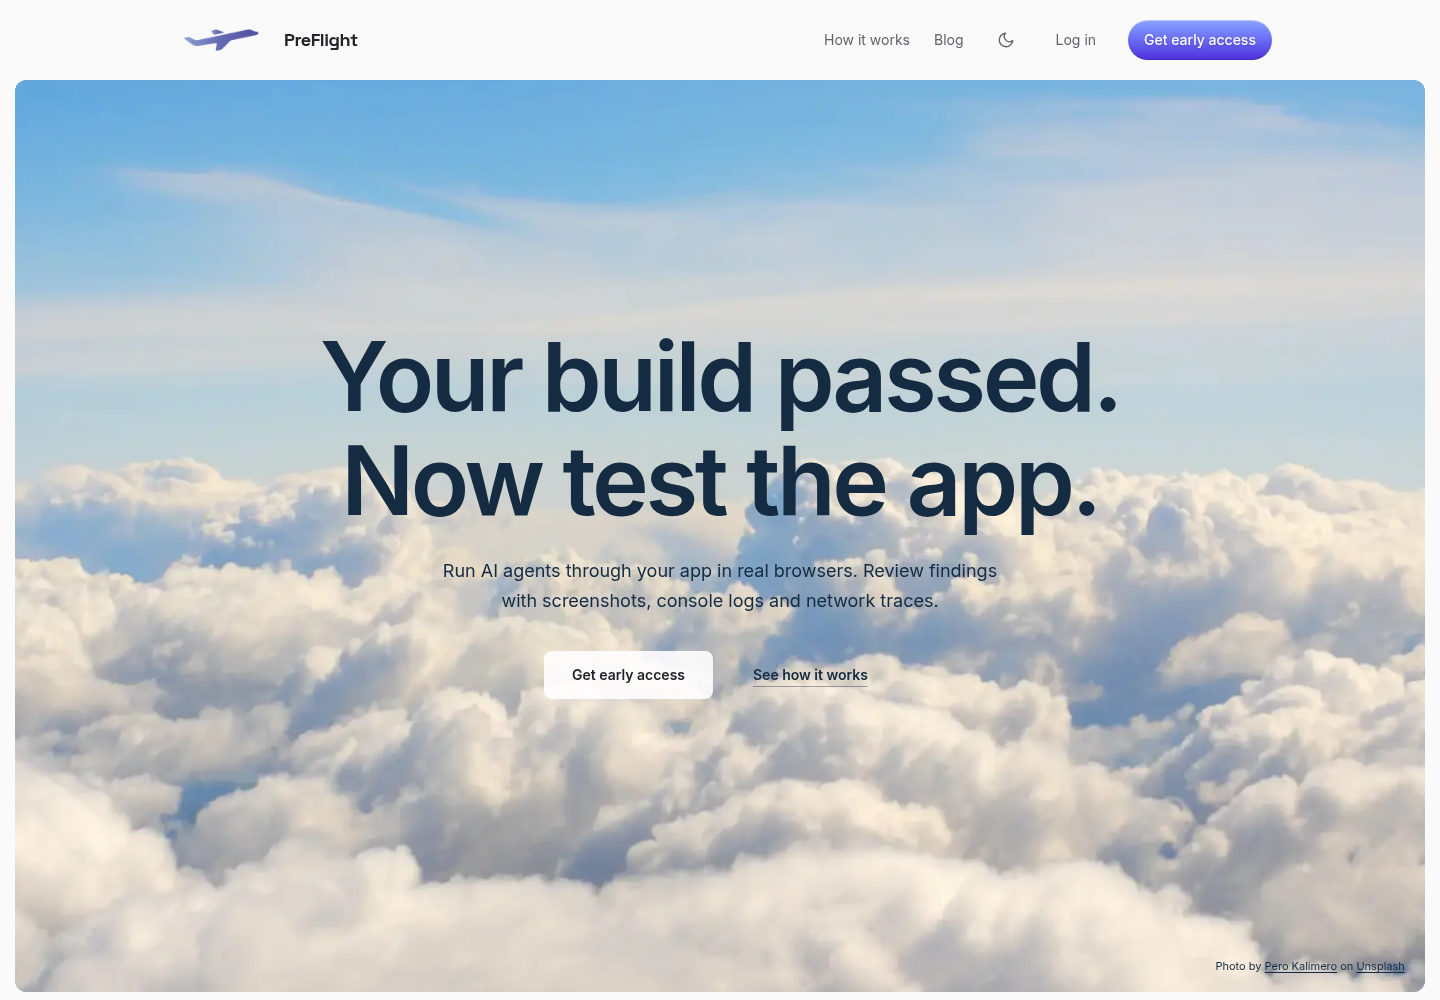
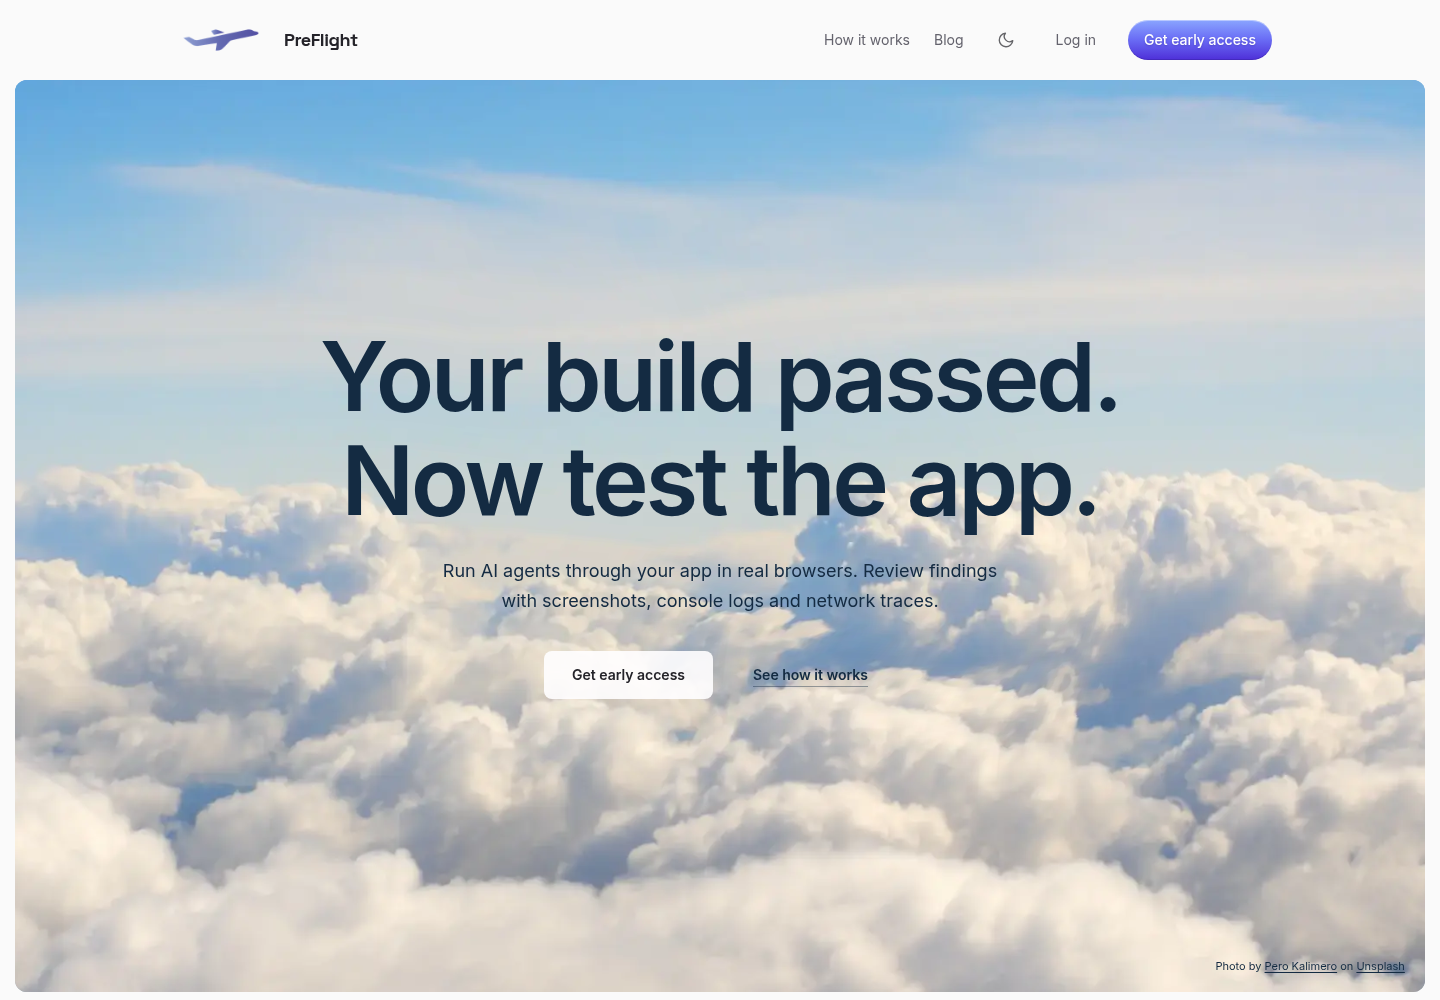
Let cursor strokes smear clouds and gently restore the photograph

diff --git a/components/CloudPhotoMotion.tsx b/components/CloudPhotoMotion.tsx
@@ -1,6 +1,11 @@
 "use client";
 
 import { useEffect, useRef, type ReactNode } from "react";
+import {
+  createCloudFlow,
+  stepCloudFlow,
+  type CloudStroke,
+} from "@/lib/cloud-flow";
 
 const vertexSource = `
 attribute vec2 a_position;
@@ -13,11 +18,8 @@ const fragmentSource = `
 precision highp float;
 uniform sampler2D u_photo;
 uniform vec2 u_cover;
-uniform vec2 u_cursor;
-uniform float u_aspect;
-uniform float u_hover;
+uniform sampler2D u_flow;
 uniform float u_scroll;
-uniform float u_time;
 varying vec2 v_uv;
 void main() {
   // Overscan makes room for parallax without exposing an edge of the photo.
@@ -26,17 +28,10 @@ void main() {
   float foreground = 1. - smoothstep(.34, .65, uv.y);
   // The cloud bank travels faster than the distant sky as the page scrolls.
   uv.y -= u_scroll * (.018 + .07 * foreground) * u_cover.y;
-  uv.x += sin(u_time * .12) * .003 * u_cover.x;
 
-  vec2 delta = v_uv - u_cursor;
-  vec2 metric = delta * vec2(u_aspect, 1.);
-  float distance = length(metric);
-  float envelope = exp(-dot(metric, metric) * 11.);
-  float ripple = sin(distance * 19. - u_time * 1.8) * .012;
-  // A localized lens and soft ripples bend the photograph around the cursor.
-  uv += delta * envelope * (.17 + ripple) * u_cover * u_hover;
-  uv += vec2(sin(metric.y * 12. + u_time), cos(metric.x * 12. - u_time))
-      * envelope * .003 * u_cover * u_hover;
+  // Sample a persistent directional field, never a cursor-centered zoom lens.
+  vec2 flow = (texture2D(u_flow, v_uv).rg * 255. - 128.) / 127. * .08;
+  uv -= flow * u_cover / 1.18;
   gl_FragColor = texture2D(u_photo, clamp(uv, .001, .999));
 }`;
 
@@ -75,13 +70,18 @@ export default function CloudPhotoMotion({
       let program: WebGLProgram | null = null;
       const shaders: WebGLShader[] = [];
       let buffer: WebGLBuffer | null = null,
-        texture: WebGLTexture | null = null;
+        texture: WebGLTexture | null = null,
+        flowTexture: WebGLTexture | null = null;
+      const flow = createCloudFlow();
+      let pointer: [number, number] | null = null;
+      let pendingStroke: CloudStroke | null = null;
       let gpuReady = false,
         lost = false;
       let uniforms: Record<string, WebGLUniformLocation | null> = {};
       function releaseGpu() {
         if (!gl) return;
         if (texture) gl.deleteTexture(texture);
+        if (flowTexture) gl.deleteTexture(flowTexture);
         if (buffer) gl.deleteBuffer(buffer);
         if (program) gl.deleteProgram(program);
         shaders.forEach((shader) => gl!.deleteShader(shader));
@@ -124,16 +124,29 @@ export default function CloudPhotoMotion({
           gl.texParameteri(gl.TEXTURE_2D, gl.TEXTURE_MAG_FILTER, gl.LINEAR);
           gl.texParameteri(gl.TEXTURE_2D, gl.TEXTURE_WRAP_S, gl.CLAMP_TO_EDGE);
           gl.texParameteri(gl.TEXTURE_2D, gl.TEXTURE_WRAP_T, gl.CLAMP_TO_EDGE);
+          flowTexture = gl.createTexture();
+          if (!flowTexture) throw new Error();
+          gl.activeTexture(gl.TEXTURE1);
+          gl.bindTexture(gl.TEXTURE_2D, flowTexture);
+          gl.texParameteri(gl.TEXTURE_2D, gl.TEXTURE_MIN_FILTER, gl.LINEAR);
+          gl.texParameteri(gl.TEXTURE_2D, gl.TEXTURE_MAG_FILTER, gl.LINEAR);
+          gl.texParameteri(gl.TEXTURE_2D, gl.TEXTURE_WRAP_S, gl.CLAMP_TO_EDGE);
+          gl.texParameteri(gl.TEXTURE_2D, gl.TEXTURE_WRAP_T, gl.CLAMP_TO_EDGE);
+          gl.texImage2D(
+            gl.TEXTURE_2D,
+            0,
+            gl.RGBA,
+            flow.width,
+            flow.height,
+            0,
+            gl.RGBA,
+            gl.UNSIGNED_BYTE,
+            stepCloudFlow(flow, 0, null, 1),
+          );
           uniforms = Object.fromEntries(
-            [
-              "u_photo",
-              "u_cover",
-              "u_cursor",
-              "u_aspect",
-              "u_hover",
-              "u_scroll",
-              "u_time",
-            ].map((name) => [name, gl!.getUniformLocation(program!, name)]),
+            ["u_photo", "u_cover", "u_flow", "u_scroll", "u_time"].map(
+              (name) => [name, gl!.getUniformLocation(program!, name)],
+            ),
           );
         } catch {
           releaseGpu();
@@ -142,24 +155,18 @@ export default function CloudPhotoMotion({
       }
       let frame = 0,
         visible = true,
-        last = 0,
-        time = 0;
+        last = 0;
       let width = 1,
         height = 1,
         scroll = 0,
         targetScroll = 0;
-      let x = 0.5,
-        y = 0.5,
-        targetX = 0.5,
-        targetY = 0.5,
-        hover = 0,
-        targetHover = 0;
       function scrollPosition() {
         const bounds = host!.getBoundingClientRect();
         targetScroll = Math.max(
           -1,
           Math.min(1, -bounds.top / Math.max(bounds.height, 1)),
         );
+        wake();
       }
       function resize() {
         const bounds = host!.getBoundingClientRect();
@@ -178,6 +185,7 @@ export default function CloudPhotoMotion({
       function upload() {
         if (!gl || lost || !photo!.complete || !photo!.naturalWidth) return;
         try {
+          gl.activeTexture(gl.TEXTURE0);
           gl.bindTexture(gl.TEXTURE_2D, texture);
           gl.pixelStorei(gl.UNPACK_FLIP_Y_WEBGL, 1);
           gl.texImage2D(
@@ -189,6 +197,7 @@ export default function CloudPhotoMotion({
             photo!,
           );
           gpuReady = true;
+          wake();
         } catch {
           gpuReady = false;
         }
@@ -198,11 +207,7 @@ export default function CloudPhotoMotion({
         if (!visible || document.hidden) return;
         const dt = last ? Math.min((now - last) / 1000, 0.05) : 1 / 60;
         last = now;
-        time += dt;
         const blend = 1 - Math.exp(-dt * 9);
-        x += (targetX - x) * blend;
-        y += (targetY - y) * blend;
-        hover += (targetHover - hover) * blend;
         scroll += (targetScroll - scroll) * blend;
         if (gl && gpuReady && !lost) {
           const imageAspect = photo!.naturalWidth / photo!.naturalHeight,
@@ -214,18 +219,37 @@ export default function CloudPhotoMotion({
             Math.min(1, aspect / imageAspect),
             Math.min(1, imageAspect / aspect),
           );
-          gl.uniform2f(uniforms.u_cursor, x, y);
-          gl.uniform1f(uniforms.u_aspect, aspect);
-          gl.uniform1f(uniforms.u_hover, hover);
+          gl.activeTexture(gl.TEXTURE1);
+          gl.bindTexture(gl.TEXTURE_2D, flowTexture);
+          gl.pixelStorei(gl.UNPACK_FLIP_Y_WEBGL, 0);
+          gl.texSubImage2D(
+            gl.TEXTURE_2D,
+            0,
+            0,
+            0,
+            flow.width,
+            flow.height,
+            gl.RGBA,
+            gl.UNSIGNED_BYTE,
+            stepCloudFlow(flow, dt, pendingStroke, aspect),
+          );
+          pendingStroke = null;
+          gl.uniform1i(uniforms.u_flow, 1);
           gl.uniform1f(uniforms.u_scroll, scroll);
-          gl.uniform1f(uniforms.u_time, time);
           gl.drawArrays(gl.TRIANGLES, 0, 6);
           layer!.dataset.motion = "webgl";
         } else {
           layer!.dataset.motion = "fallback";
-          photo!.style.transform = `scale(1.18) translate3d(${(x - 0.5) * -8 * hover}px,${scroll * height * 0.065}px,0)`;
+          pendingStroke = null;
+          flow.active = false;
+          photo!.style.transform = `scale(1.18) translate3d(0px,${scroll * height * 0.065}px,0)`;
         }
-        frame = requestAnimationFrame(tick);
+        if (
+          flow.active ||
+          pendingStroke ||
+          Math.abs(targetScroll - scroll) > 0.00001
+        )
+          frame = requestAnimationFrame(tick);
       }
       function wake() {
         if (visible && !document.hidden && !frame) {
@@ -234,27 +258,32 @@ export default function CloudPhotoMotion({
         } else if ((!visible || document.hidden) && frame) {
           cancelAnimationFrame(frame);
           frame = 0;
+          leave();
+          pendingStroke = null;
+          flow.values.fill(0);
         }
       }
       function move(event: PointerEvent) {
         if (!finePointer.matches || event.pointerType === "touch") return;
         const bounds = host!.getBoundingClientRect();
-        targetX = Math.max(
-          0,
-          Math.min(1, (event.clientX - bounds.left) / width),
-        );
-        targetY =
-          1 - Math.max(0, Math.min(1, (event.clientY - bounds.top) / height));
-        targetHover = 1;
+        const point: [number, number] = [
+          Math.max(0, Math.min(1, (event.clientX - bounds.left) / width)),
+          1 - Math.max(0, Math.min(1, (event.clientY - bounds.top) / height)),
+        ];
+        if (pointer)
+          pendingStroke = { from: pendingStroke?.from || pointer, to: point };
+        pointer = point;
+        wake();
       }
       function leave() {
-        targetHover = 0;
+        pointer = null; // The existing displacement continues relaxing after exit.
       }
       function contextLost(event: Event) {
         event.preventDefault();
         lost = true;
         gpuReady = false;
         layer!.dataset.motion = "fallback";
+        wake();
       }
       const observer = new IntersectionObserver((entries) => {
         visible = entries[0].isIntersecting;

diff --git a/lib/cloud-flow.ts b/lib/cloud-flow.ts
@@ -1,0 +1,63 @@
+export type CloudStroke = { from: [number, number]; to: [number, number] };
+export function createCloudFlow() {
+  const width = 64,
+    height = 48;
+  return {
+    width,
+    height,
+    active: false,
+    values: new Float32Array(width * height * 2),
+    pixels: new Uint8Array(width * height * 4),
+  };
+}
+/** Directional displacements persist where the pointer passed, then relax to zero. */
+export function stepCloudFlow(
+  flow: ReturnType<typeof createCloudFlow>,
+  dt: number,
+  stroke: CloudStroke | null,
+  aspect: number,
+) {
+  const decay = Math.exp(-dt * 1.25);
+  flow.active = false;
+  const ax = stroke?.from[0] ?? 0,
+    ay = stroke?.from[1] ?? 0;
+  const dx = stroke ? stroke.to[0] - ax : 0,
+    dy = stroke ? stroke.to[1] - ay : 0;
+  const lengthSquared = (dx * aspect) ** 2 + dy ** 2;
+  // Cap a single fast sweep and accumulated displacement to preserve the photo.
+  const gain = Math.min(1, 0.065 / Math.max(Math.sqrt(lengthSquared), 0.00001));
+  for (let y = 0; y < flow.height; y++)
+    for (let x = 0; x < flow.width; x++) {
+      const index = (y * flow.width + x) * 2;
+      let push = 0;
+      if (lengthSquared > 0.000001) {
+        const px = (x / (flow.width - 1) - ax) * aspect;
+        const py = y / (flow.height - 1) - ay;
+        const t = Math.max(
+          0,
+          Math.min(1, (px * dx * aspect + py * dy) / lengthSquared),
+        );
+        const distanceSquared =
+          (px - t * dx * aspect) ** 2 + (py - t * dy) ** 2;
+        push = Math.exp(-distanceSquared / 0.012) * gain * 0.9;
+      }
+      const vx = flow.values[index] * decay + dx * push;
+      const vy = flow.values[index + 1] * decay + dy * push;
+      // Bound physical displacement in screen space, including narrow windows.
+      const limit = Math.min(
+        1,
+        0.055 / Math.max(Math.hypot(vx * aspect, vy), 0.00001),
+      );
+      flow.values[index] = Math.abs(vx * limit) < 0.0001 ? 0 : vx * limit;
+      flow.values[index + 1] = Math.abs(vy * limit) < 0.0001 ? 0 : vy * limit;
+      if (flow.values[index] || flow.values[index + 1]) flow.active = true;
+      const pixel = index * 2;
+      flow.pixels[pixel] = Math.round(128 + (flow.values[index] / 0.08) * 127);
+      flow.pixels[pixel + 1] = Math.round(
+        128 + (flow.values[index + 1] / 0.08) * 127,
+      );
+      flow.pixels[pixel + 2] = 0;
+      flow.pixels[pixel + 3] = 255;
+    }
+  return flow.pixels;
+}

diff --git a/docs/photographic-cloud-hero/README.md b/docs/photographic-cloud-hero/README.md
@@ -19,25 +19,34 @@ The source/standard license links above are retained for review; no claim is mad
 that the current live Unsplash page was fetched successfully.
 
 The photograph replaces procedurally generated clouds. `CloudPhotoMotion` samples
-that same photo through a small WebGL shader: a cursor-following lens and soft
-ripples displace nearby pixels, and a height-based foreground mask lets the cloud
-bank move faster than the distant sky during scroll. It approximates depth from
+that same photo through a small WebGL shader. Mouse movement paints directional
+strokes into a low-resolution displacement field, pulling nearby photo detail
+along the pointer's path. The deformation stays where it was made and decays
+smoothly back to the original photo, even while the cursor remains still. There
+is no radial zoom/lens or ambient drift. A height-based foreground mask still
+lets the cloud bank move faster than the distant sky during scroll. It approximates depth from
 a single photo, rather than reconstructing a 3D scene. The frame, text, controls
 and credit remain stationary relative to the page.
 
-The effect eases toward pointer/scroll targets, disables pointer warping for
-coarse/touch input, and pauses rendering offscreen or in a hidden tab. Drawing
+Scroll targets ease into position, while drag/hover smears relax exponentially
+and snap to an exact neutral state once imperceptible. Displacement is bounded
+for quick sweeps and narrow screens. Coarse/touch input does not paint strokes.
+Rendering pauses offscreen, in hidden tabs, and when everything has settled;
+scroll or pointer activity wakes it again. Drawing
 resolution is capped at 1.8 million pixels / DPR 1.5. GPU resources, observers and
 listeners are released on teardown or a reduced-motion preference change. The
 server-rendered Next Image remains underneath: unavailable/failed/lost WebGL uses
 ordinary CSS photo parallax, and reduced motion keeps a completely static photo.
 The image is decorative and no remote texture is loaded.
 
-Validation: production build and all 97 unit tests pass. [Browser checks](browser-checks.jsonl)
+Validation: production build and all 100 unit tests pass. [Browser checks](browser-checks.jsonl)
 exercise actual WebGL, disabled WebGL and reduced motion on desktop and touch
-phone viewports, including GPU pointer/scroll uniforms, stable copy, no horizontal
+phone viewports, including directional displacement uploads, no deformation
+from a stationary pointer, decay after movement/exit, exact before/after photo
+pixel equality, idle pause, scroll uniforms, stable copy, no horizontal
 overflow/page errors, offscreen pause/re-entry, live reduced-motion toggles and
-context-loss fallback. Desktop uses light mode and phone uses dark mode.
+context-loss fallback. Unit checks cover direction, localized influence, full
+neutral reset and bounded rapid strokes at different aspect ratios. Desktop uses light mode and phone uses dark mode.
 
 Run the browser checks against a running production build:
 
